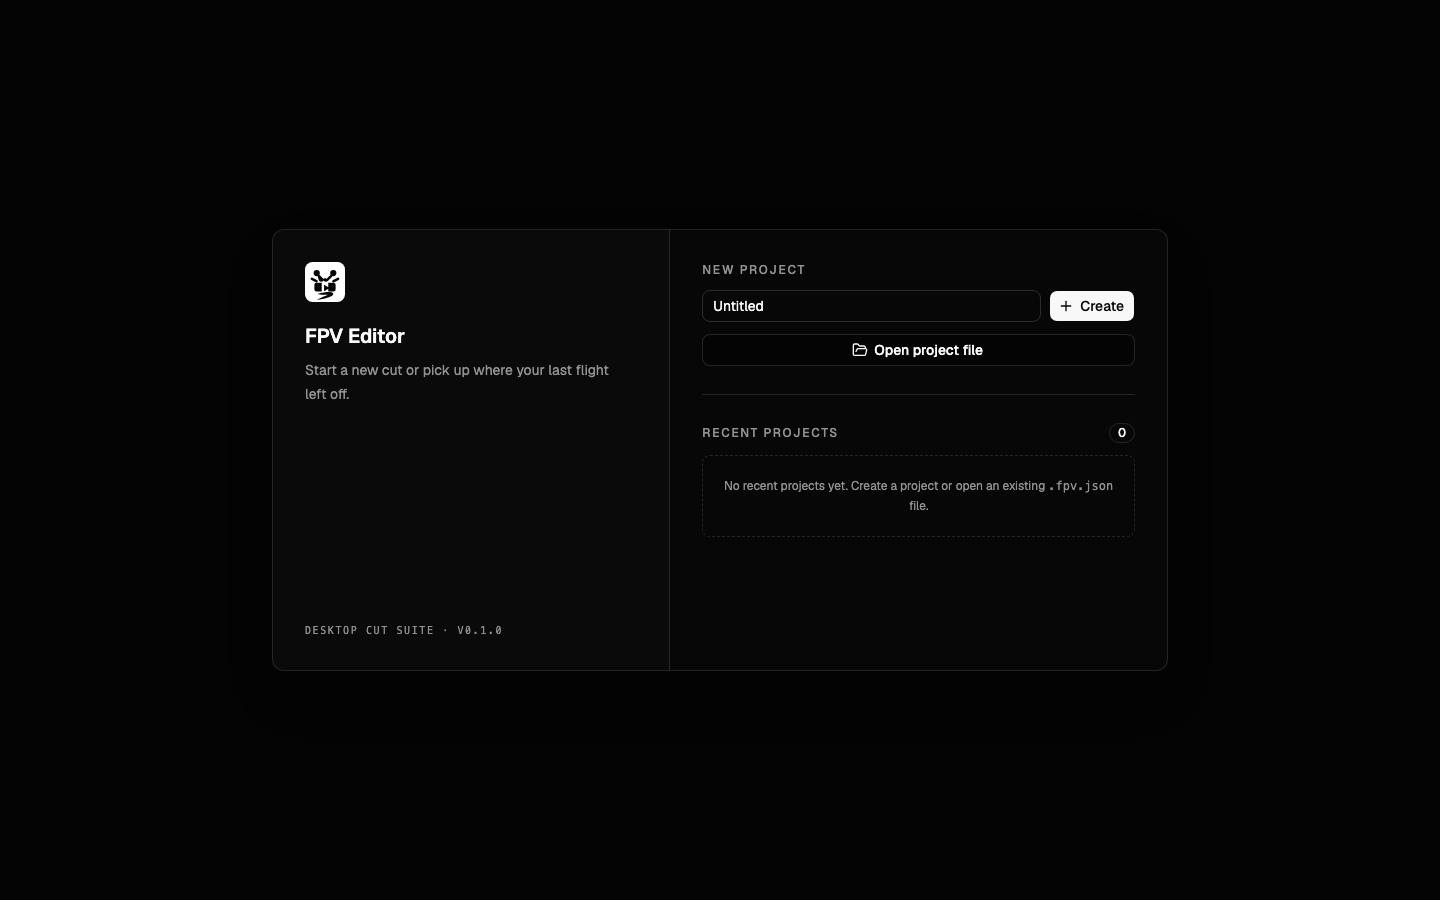
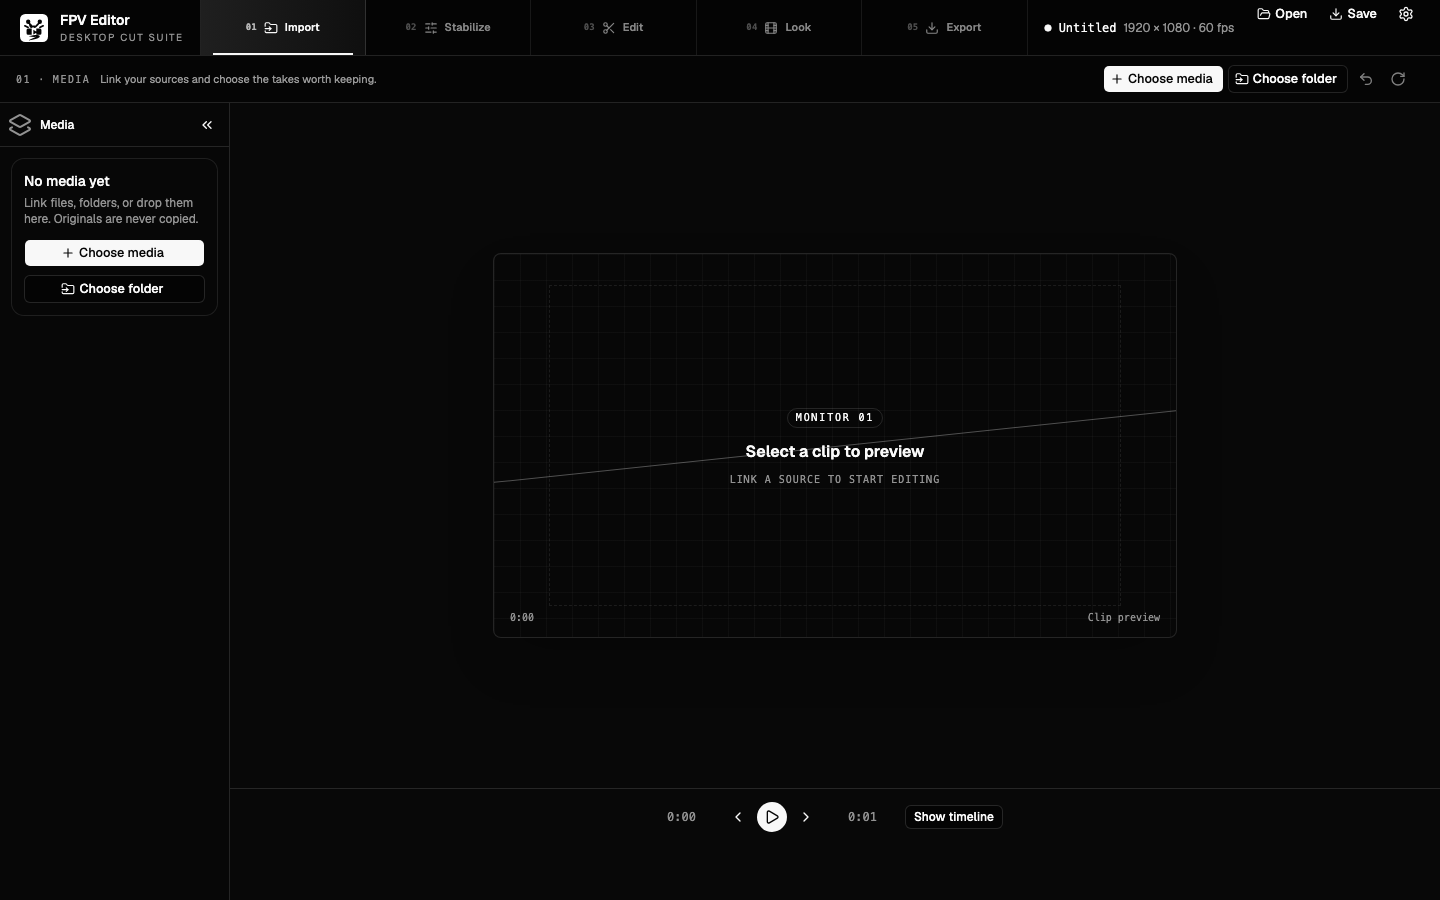
docs: show empty editor workspace

diff --git a/README.md b/README.md
@@ -13,7 +13,7 @@
   <a href="LICENSE">MIT License</a>
 </p>
 
-![FPV Editor project launcher](docs/images/editor-overview.png)
+![FPV Editor empty project workspace](docs/images/editor-overview.png)
 
 FPV Editor brings the FPV post-flight workflow into one native desktop application:
 import your flight footage, build a multi-track cut, tune stabilization, apply LUTs, and
